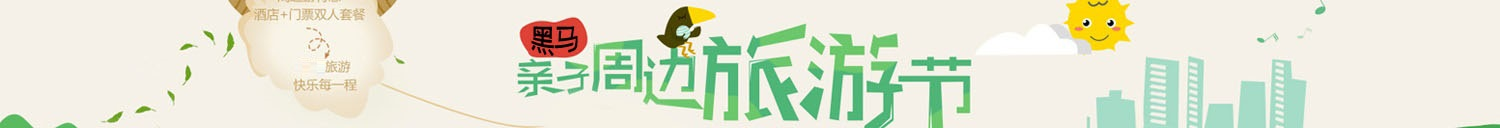
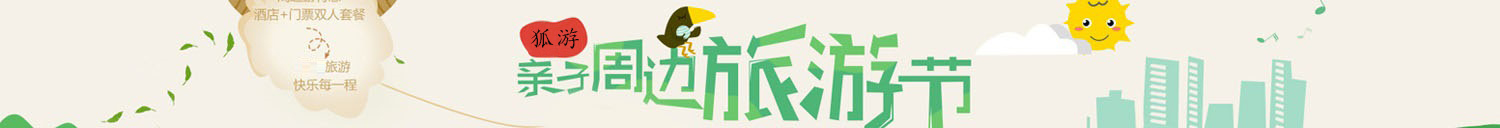
替换了一些图标，修改了css样式，添加了一个登录页面的控制代码，以及登录页面的异步请求响应代码

diff --git a/src/main/webapp/login.html b/src/main/webapp/login.html
@@ -5,7 +5,7 @@
     <meta charset="utf-8">
     <meta http-equiv="X-UA-Compatible" content="IE=edge">
     <meta name="viewport" content="width=device-width, initial-scale=1">
-	<title>携程旅游网-登录</title>
+	<title>狐游天下旅游网-登录</title>
     <link rel="stylesheet" type="text/css" href="css/common.css">
     <link rel="stylesheet" type="text/css" href="css/login.css">
     <!-- HTML5 shim and Respond.js for IE8 support of HTML5 elements and media queries -->
@@ -18,6 +18,22 @@
     <script src="js/angular.min.js"></script>
 	<!--导入jquery-->
 	<script src="js/jquery-3.3.1.js"></script>
+	<script>
+		$(function () {
+			$("#btn_sub").click(function () {
+				$.post("loginServlet", $("#loginForm").serialize(), function (data) {
+					if (data.flag) {
+
+					} else {
+						$("#errorMsg").html(data.errorMsg);
+						//刷新验证码
+						$("#checkCode").click();
+					}
+				});
+			});
+			return false;
+		});
+	</script>
 </head>
 
 <body>
@@ -31,7 +47,7 @@
         <div class="login-box">
         	<div class="title">
         		<img src="images/login_logo.png" alt="">
-        		<span>欢迎登录黑马旅游账户</span>
+				<span>欢迎登录狐游天下</span>
         	</div>
         	<div class="login_inner">
 				
@@ -43,7 +59,7 @@
         			<input name="password" type="text" placeholder="请输入密码" autocomplete="off">
         			<div class="verify">
 					<input name="check" type="text" placeholder="请输入验证码" autocomplete="off">
-					<span><img src="checkCode" alt="" onclick="changeCheckCode(this)"></span>
+						<span><img src="checkCode" alt="" id="checkCode" onclick="changeCheckCode(this)"></span>
 					<script type="text/javascript">
 						//图片点击事件
 						function changeCheckCode(img) {
@@ -52,7 +68,7 @@
 					</script>
 			</div>
 			<div class="submit_btn">
-        				<button type="button">登录</button>
+				<button type="button" id="btn_sub">登录</button>
         				<div class="auto_login">
         					<input type="checkbox" name="" class="checkbox">
         					<span>自动登录</span>

diff --git a/src/main/webapp/index.html b/src/main/webapp/index.html
@@ -5,7 +5,7 @@
     <meta charset="utf-8">
     <meta http-equiv="X-UA-Compatible" content="IE=edge">
     <meta name="viewport" content="width=device-width, initial-scale=1">
-    <title>携程旅游网</title>
+    <title>狐游天下旅游网</title>
     <!-- Bootstrap -->
     <link href="css/bootstrap.min.css" rel="stylesheet">
     <link rel="stylesheet" type="text/css" href="css/common.css">
@@ -62,12 +62,12 @@
     <!-- banner end-->
     <!-- 旅游 start-->
     <section id="content">
-         <!-- 黑马精选start-->
+        <!-- 狐游精选start-->
         <section class="hemai_jx">
             <div class="jx_top">
                 <div class="jx_tit">
                     <img src="images/icon_5.jpg" alt="">
-                    <span>携程精选</span>
+                    <span>狐游精选</span>
                 </div>
                 <!-- Nav tabs -->
                 <ul class="jx_tabs" role="tablist">
@@ -211,7 +211,7 @@
                 </div>
             </div>
         </section>
-        <!-- 黑马精选end-->
+        <!-- 狐游精选end-->
         <!-- 国内游 start-->
         <section class="hemai_jx">
             <div class="jx_top">

diff --git a/src/main/webapp/css/common.css b/src/main/webapp/css/common.css
@@ -139,7 +139,7 @@ h1, h2, h3, h4, h5, h6 {
     float: left;
     width: 400px;
     height: 36px;
-    border: 2px solid #ffc900;
+    border: 2px solid #eaac20;
     padding-left: 10px;
 }
 
@@ -151,7 +151,7 @@ h1, h2, h3, h4, h5, h6 {
     float: left;
     width: 90px;
     height: 40px;
-    background: #ffc900;
+    background: #eaac20;
     text-align: center;
     line-height: 40px;
     color: #000;
@@ -175,7 +175,7 @@ h1, h2, h3, h4, h5, h6 {
 
 :-ms-input-placeholder {
     /* Internet Explorer 10+ */
-    font-size: 12x;
+    font-size: 12px;
 }
 
 .hot_pic,
@@ -200,7 +200,7 @@ h1, h2, h3, h4, h5, h6 {
 .navitem {
     width: 100%;
     height: 40px;
-    background: #ffc900;
+    background: #eaac20;
 }
 
 .nav {
@@ -289,7 +289,7 @@ h1, h2, h3, h4, h5, h6 {
     width: 100%;
     height: 38px;
     line-height: 38px;
-    background: #ffc900;
+    background: #eaac20;
     color: #3d3d3f;
     text-align: center;
     font-size: 12px;

diff --git a/src/main/webapp/activation_successful.html b/src/main/webapp/activation_successful.html
@@ -7,13 +7,21 @@
     <link rel="stylesheet" href="css/register.css">
     <!--导入jquery-->
     <script src="js/jquery-3.3.1.js"></script>
+    <script type="text/javascript">
+        $(function () {
+            window.setTimeout(function () {
+                location.href = "login.html";
+            }, 3000);
+        });
+    </script>
 </head>
 <body>
 <!--引入头部-->
 <div id="header"></div>
 <!-- 头部 end -->
 <div style="text-align:center;red:yellow;font-weight:bold;height:150px;padding-top:100px;font-size:30px;">
-    <h4><a>恭喜，激活成功！请前往<a href="login.html">登录页面</a></h4>
+    <h4><a>恭喜宁，激活成功！页面将在3秒后跳转...<br><br>或直接点击前往<a href="login.html" style="color: blue">狐游天下登录页面</a></a>
+    </h4>
 </div>
 <!--引入尾部-->
 <div id="footer"></div>

diff --git a/src/main/webapp/route_detail.html b/src/main/webapp/route_detail.html
@@ -61,9 +61,9 @@
                <p class="pros_title">【尾单特卖】全国-曼谷6-7天自由行 泰国出境旅游 特价往返机票自由行二次确认</p>
                 <p class="hot">1-2月出发，网付立享￥1099/2人起！爆款位置有限，抢完即止！</p>
                 <div class="pros_other">
-                    <p>经营商家  ：黑马国旅</p>
-                    <p>咨询电话 : 400-618-9090</p>
-                    <p>地址 ： 传智播客黑马程序员</p>  
+                    <p>经营商家 ：狐游国旅</p>
+                    <p>咨询电话 : 101-666-2333</p>
+                    <p>地 址 ：德玛西亚第五社区3021</p>
                 </div>
                 <div class="pros_price">
                     <p class="price"><strong>¥2699.00</strong><span>起</span></p>

diff --git a/src/main/webapp/header.html b/src/main/webapp/header.html
@@ -32,7 +32,7 @@
                     </div>
                     <div class="hot_tel">
                         <p class="hot_time">客服热线(9:00-6:00)</p>
-                        <p class="hot_num">400-618-9090</p>
+                        <p class="hot_num">101-666-2333</p>
                     </div>
                 </div>
             </div>
@@ -42,7 +42,7 @@
      <!-- 首页导航 -->
     <div class="navitem">
         <ul class="nav">
-            <li class="nav-active"><a href="index.html">首页</a></li>
+            <li class="nav-active"><a href="index.html">狐游首页</a></li>
             <li><a href="route_list.html">门票</a></li>
             <li><a href="route_list.html">酒店</a></li>
             <li><a href="route_list.html">香港车票</a></li>

diff --git a/src/main/webapp/register_ok.html b/src/main/webapp/register_ok.html
@@ -13,7 +13,7 @@
     <div id="header"></div>
         <!-- 头部 end -->
     	<div style="text-align:center;red:yellow;font-weight:bold;height:150px;padding-top:100px;font-size:30px;">
-    		<h4>恭喜，注册成功！请登录您的注册邮箱进行激活您的账号，激活后才能登录。</h4>
+            <h4>恭喜，注册成功！请登录您的注册邮箱进行激活，激活后才能登录。</h4>
     	</div>
         <!--引入尾部-->
     	<div id="footer"></div>

diff --git a/src/main/webapp/activation_fail.html b/src/main/webapp/activation_fail.html
@@ -13,7 +13,7 @@
 <div id="header"></div>
 <!-- 头部 end -->
 <div style="text-align:center;red:yellow;font-weight:bold;height:150px;padding-top:100px;font-size:30px;">
-    <h4><a>激活失败，请联系管理员<br>管理员邮件：<b>xiayestar@foxmail.com<b></a></h4>
+    <h4><a>激活失败，请联系管理员<br>管理员邮件：<b>xiayestar@foxmail.com</b></a></h4>
 </div>
 <!--引入尾部-->
 <div id="footer"></div>

diff --git a/src/main/webapp/css/login.css b/src/main/webapp/css/login.css
@@ -16,7 +16,7 @@
 .title {
     height: 80px;
     line-height: 80px;
-    background: #ffc900;
+    background: #eaac20;
     font-size: 22px;
     padding:0 30px; 
 }
@@ -73,7 +73,7 @@
     width: 120px;
     height: 40px;
     border: none;
-    background-color: #ffa800;   
+    background-color: #ffd41c;
     text-align: center;
     line-height: 40px;
     color: #000;

diff --git a/src/main/webapp/myfavorite.html b/src/main/webapp/myfavorite.html
@@ -2,7 +2,7 @@
 <html lang="en">
     <head>
         <meta charset="utf-8">
-        <title>携程旅游网-我的收藏</title>
+        <title>狐游天下旅游网-我的收藏</title>
         <link href="css/bootstrap.min.css" rel="stylesheet">
         <link rel="stylesheet" type="text/css" href="css/common.css">
         <link rel="stylesheet" href="css/index.css">

diff --git a/src/main/webapp/favoriterank.html b/src/main/webapp/favoriterank.html
@@ -2,7 +2,7 @@
 <html lang="en">
     <head>
         <meta charset="utf-8">
-        <title>收藏排行榜</title>
+        <title>狐游天下收藏排行榜</title>
         <link rel="stylesheet" type="text/css" href="css/common.css">
         <link rel="stylesheet" type="text/css" href="css/ranking-list.css">
         <script src="js/jquery-3.3.1.js"></script>

diff --git a/src/main/webapp/route_list.html b/src/main/webapp/route_list.html
@@ -17,7 +17,7 @@
         <div class="contant">
             <div class="crumbs">
                 <img src="images/search.png" alt="">
-                <p>携程旅行><span>搜索结果</span></p>
+                <p>狐游旅行><span>搜索结果</span></p>
             </div>
             <div class="xinxi clearfix">
                 <div class="left">
